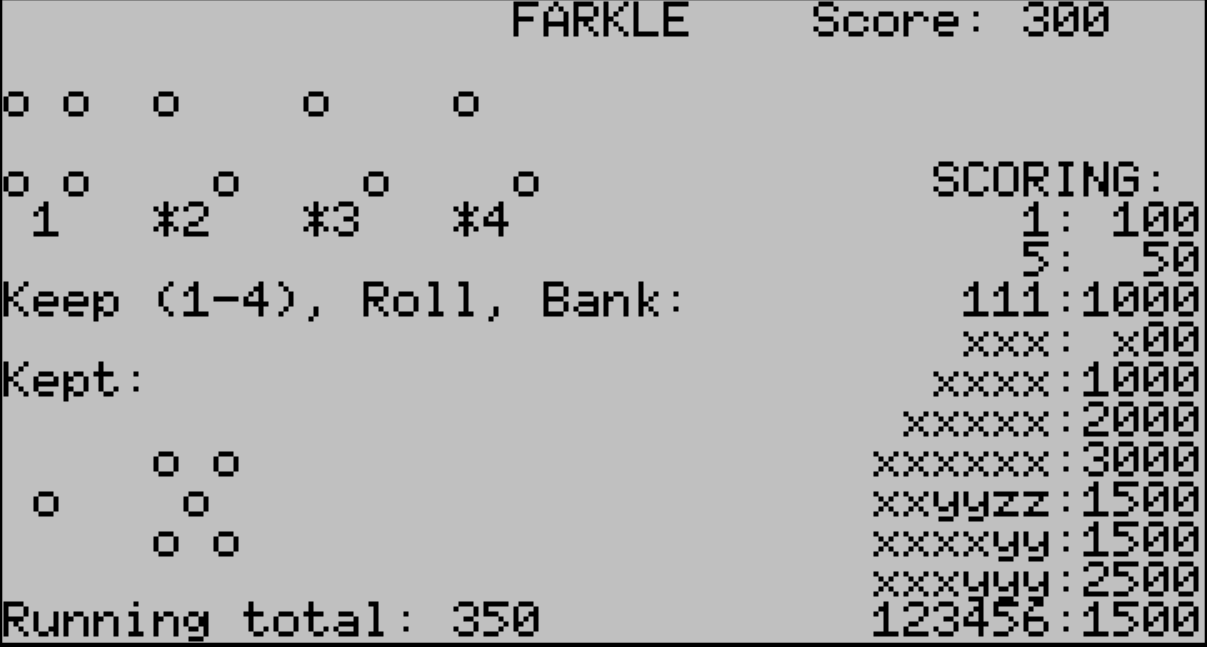
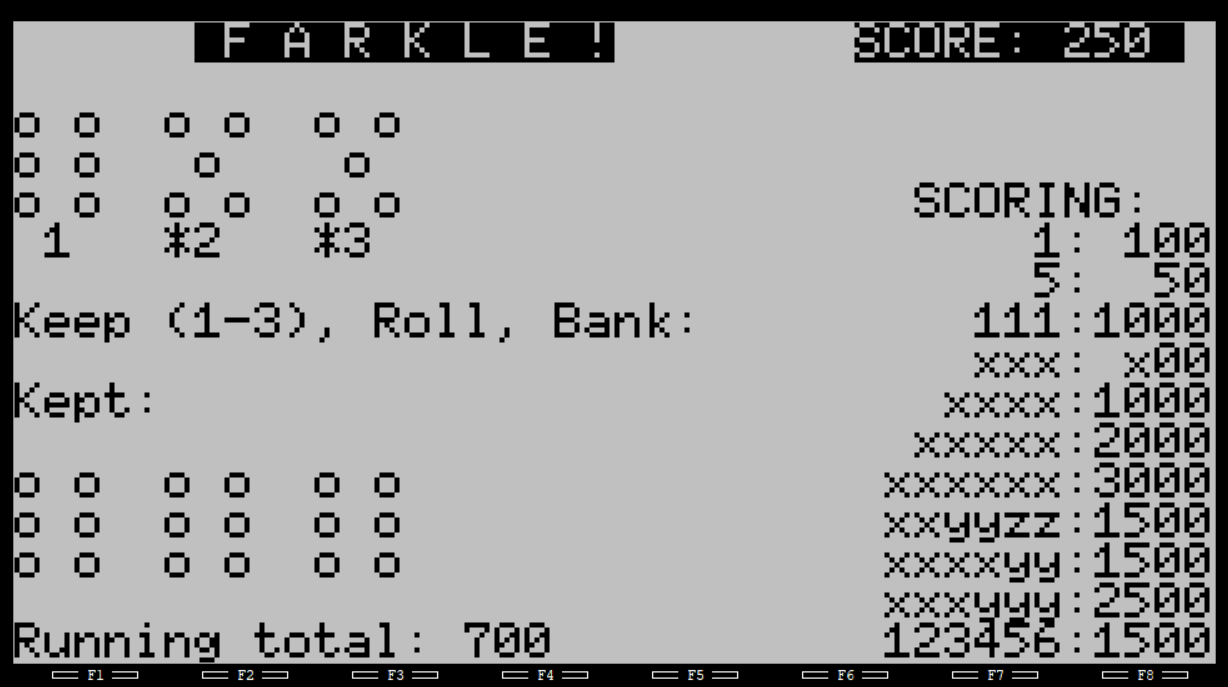
Updated display. Made it faster

diff --git a/t100/fark/README.md b/t100/fark/README.md
@@ -11,12 +11,13 @@ Can you get to 5000 points in 10 rolls or less?
 
 Each turn consists of several rolls using six dice:
 1. Initial Roll: Roll all six dice. 
-1. Select at least one "scoring" die (like a 1 or a 5). Use the 1 through 6 keys to select (or deselect) dice.
+1. Select at least one "scoring" die. Use the 1 through 6 keys to select (or deselect) dice.
 1. The Decision: After setting aside scoring dice, you have two choices:
-   1. Bank: Stop rolling and add your current turn's running total to your permanent score.
-   1. Roll: Roll the remaining dice to increase your running total.
-1. Farkling: If you roll and no scoring combinations are possible from the dice on the table, you "Farkle." You lose all points in the running total during that specific turn.
+   1. Bank ("b" key): Stop rolling and add your current turn's running total to your permanent score. Includes all "selected" dice.
+   1. Roll ("r" key): Keep selected dice, and re-roll the unselected dice to increase your running total.
+1. FARKLE: If you roll and no scoring combinations are possible from the dice on the table, you "Farkle." You lose all points in the running total during that specific turn.
 
+Note: You must select at least one die to "re-roll", and you must have a non-zero running total to "bank".
 
 ## Scoring
 
